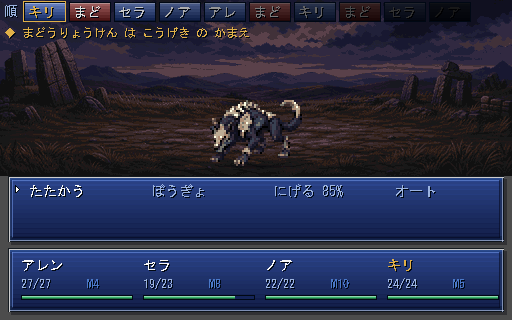
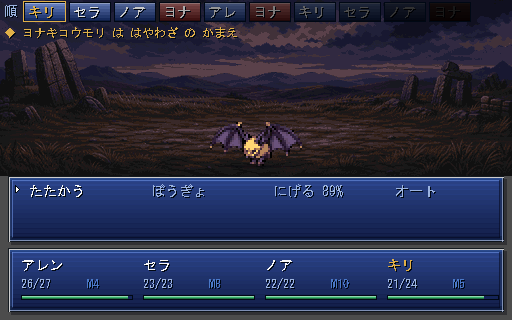
P-1 行動順の札で同種の敵を見分けられるようにする
_short_name() が先頭 2 文字を取っていた。Encounter は同種の敵の末尾へ Ａ〜Ｆ を付けるので、
識別子が必ず消える。「され／され」のように、どれがどれか分からない札が並んでいた。

CTB の核は「次に動く個体を先に狙う」判断なので、ここで個体が見分けられないと行動順の帯
そのものが読めない。

末尾が識別子なら頭 1 文字＋識別子にする(されこうべＡ → さＡ)。2 文字の枠で「種類」と
「どれか」を両方出す。札の幅も表示数も変えていない。

Gate は 4 件。固定の種で同種を 2 体以上含む 6 体編成を出し、札が一意で識別子が残ることを
見る。test_core 538/0、check_ui 34 画面。

diff --git a/tasks.md b/tasks.md
@@ -24,7 +24,7 @@
 
 ## 進み具合
 
-**済んだタスク 31 件 / 残り 6 件（ID の総数 36）。**
+**済んだタスク 32 件 / 残り 5 件（ID の総数 36）。**
 
 終わった項目はここから消して `docs/tasks_archive.md` へ移すので、
 このファイルに `[x]` は残らない。**動いているかどうかは下の「直近に済んだこと」で見る。**
@@ -32,11 +32,11 @@
 
 ### 直近に済んだこと
 
+- **[Codex追記 P-1] 行動順の札で、同種の敵を最後まで識別できるようにする。**
 - **[Codex追記 P-0] 作業中に二重化した拠点Viewを解消し、現行ツリーを起動可能に戻す。**
 - **[Codex追記 F-7] 新しい職業進行と全技をUI・オート・実測へ接続する。**
 - **[Codex追記 F-6b] ★7・8 の奥義 30 種。**
 - **[Codex追記 E-2] 職業★6に装着制の固有報酬「継承印」を追加する（仕組み）。**
-- **奥義の共通契約を作った**（F-6b の前半）。
 
 ## 次にやる（効き目の大きい順）
 
@@ -69,20 +69,6 @@ Codex は**データと設計だけ**を出している（`data/cross_world_arcs
 技・用語・文章・音・参照素材の検査を通過。40シードの全周方針は主撃破25%で
 現行帯内。以下は、この通しで残った「動くが判断しにくい箇所」と、
 同じ検査を再現可能にするための不足だけを記す。
-
-- [ ] **[Codex追記 P-1] 行動順の札で、同種の敵を最後まで識別できるようにする。**
-      Evidence: 危険度5の4体戦（`docs/preview/play/080_BATTLE.png`）では、
-      10枚の札が「まど／から／され／てい」の2文字だけになる。
-      `TurnOrderBar._short_name()` は名前の先頭2文字を使う一方、
-      `Encounter` が同種へ付ける識別子（Ａ〜Ｆ）は名前の末尾なので、
-      同種が複数いる編成では識別子が必ず消える。CTBの核である「次に動く個体を
-      先に狙う」判断と、対象選択の名前が対応しない。
-      Expected: 10枚表示と512px幅を保ったまま、同種の個体を札・対象・画面上で
-      同じ識別子により追える。異種の長い名前も意味のない2文字片にしない。
-      Scope: `src/ui/turn_order_bar.gd`、対象選択表示、同名敵fixture。
-      **Gate:** 同種2体以上を含む6体編成を固定seedで出し、各個体の札が一意で、
-      1体を倒すと該当する札だけが消える。`--ui-check` ではみ出し0、
-      同じseed・入力で札順、対象、行動順が一致する。
 
 - [ ] **[Codex追記 P-2] 自動プレイのコマを実行単位で隔離し、古い画面を混ぜない。**
       Evidence: `AutoPlay` は毎回 `docs/preview/play/000_<MODE>.png` から保存するが

diff --git a/docs/tasks_archive.md b/docs/tasks_archive.md
@@ -1744,3 +1744,21 @@
       `godot --headless --import` エラー 0、`test_core.gd` 534/0、
       `check_ui.py` 34 画面はみ出し 0、`--shot=depart` を原寸で目視 ――
       失うもの／持ち帰るものの 3 文がすべて読め、行落ち 0。
+
+## 2026-07-31（P-1 行動順の札で個体を見分ける）
+
+- [x] **[Codex追記 P-1] 行動順の札で、同種の敵を最後まで識別できるようにする。**
+      **`_short_name()` が先頭 2 文字を取っていた。** `Encounter` は同種の敵の
+      **末尾**へ Ａ〜Ｆ を付けるので、**識別子が必ず消える**。
+      「され／され」のように、どれがどれか分からない札が並んでいた。
+
+      CTB の核は「次に動く個体を先に狙う」判断なので、ここで個体が
+      見分けられないと**行動順の帯そのものが読めない**。
+
+      直し方は、末尾が識別子なら**頭 1 文字＋識別子**にする
+      （`されこうべＡ` → `さＡ`）。2 文字の枠で「種類」と「どれか」を両方出す。
+      札の幅（42px）も 10 枚という表示数も変えていない。
+
+      **Gate:** `test_core.gd` に 4 件 ―― 固定の種（8）で同種を 2 体以上含む
+      6 体編成を出し、札が一意で、識別子が札に残ることを見る。538/0。
+      `check_ui.py` 34 画面はみ出し 0。
